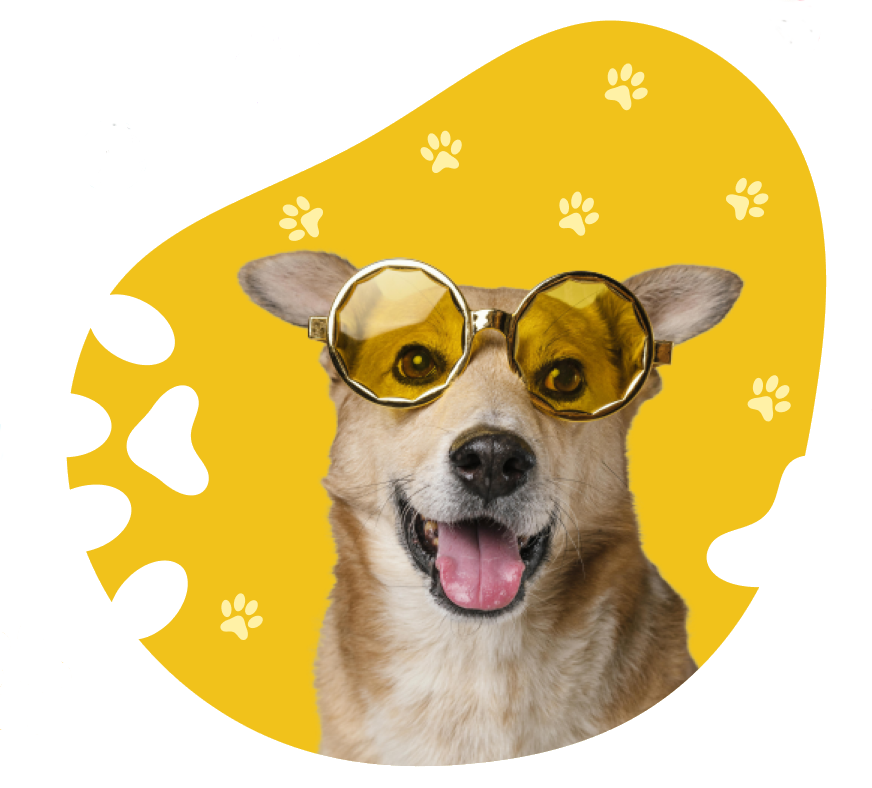
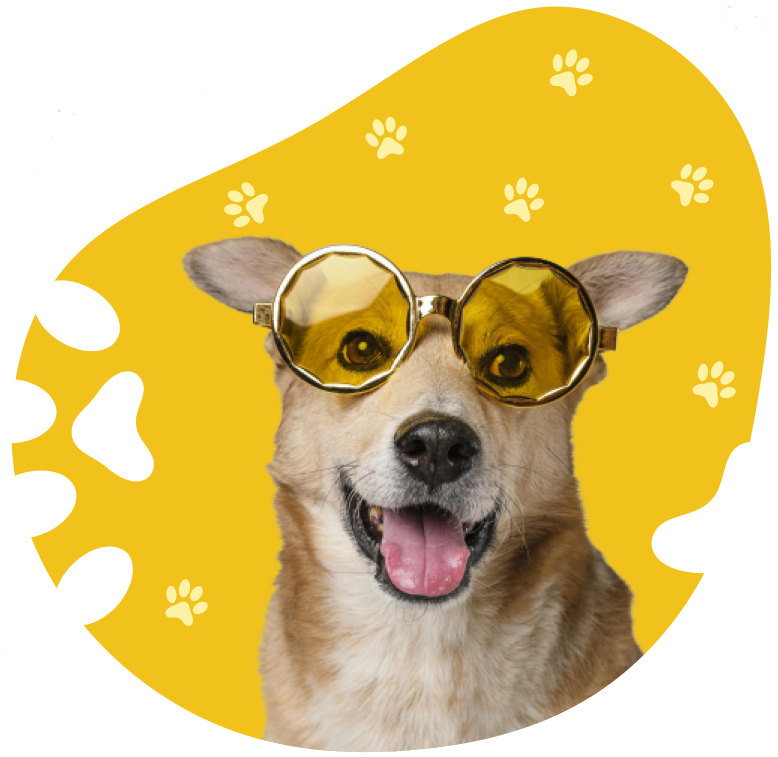
update

Changed region(s): [[0.0, 0.0, 1.0, 1.0], [0.617, 0.2431, 0.7095, 0.3038]]

diff --git a/src/home/home.css b/src/home/home.css
@@ -44,13 +44,14 @@
 }
 
 .hero-text-container {
-    width: 70vw;
+    width: 65%;
     height: 89vh;
     display: flex;
     flex-direction: column;
     justify-content: center;
     padding-left: 15vh;
     padding-bottom: 5vh;
+
 }
 
 
@@ -65,52 +66,58 @@
 .hero-text-inara-text {
     font-family: 'Montserrat';
 
-    font-size: 6rem; 
+    font-size: 13vh; 
     font-weight: 600; 
-    margin: 20px 0; 
     color: #000000; 
 }
 
 .hero-text-description {
     font-family: 'Montserrat';
 
-    font-size: 1.25rem; 
+    font-size: 2.8vh; 
     font-weight: 500; 
     margin: 10px 0; 
     color: #1f2027; 
     margin-right: 10vw;
 }
-
-.hero-dog {
-    position: absolute;
-    height: 38rem; 
-    margin-left: 50vw;
-    z-index: 3;
-    flex-shrink: 0;
-    max-width: 100%;
-    
-
-}
-
-.hero-grid {
+ 
+.hero-image-container {
     position: relative;
-    z-index: 2;
-
-    height: 38.8rem;
-}
+    height: 89vh;
+    width: 65%;
+    display: flex;
+    justify-content: center;
+    align-items: center;
+  }
+  
+  .hero-grid {
+    height: 89vh;
+    width: auto;
+    position: relative;
+    z-index: 1;
+  }
+  
+  .hero-dog {
+    height: 88vh;
+    width: auto;
+    position: absolute;
+    z-index: 2; /* Make sure it's on top of the grid */
+  }
+  
 
 .hero-button {
     font-family: 'Montserrat', sans-serif;
     background-color: #EBCA67;
     color: #000000;
-    padding: 16px 20px;
-    font-size: 1.1rem;
+    padding: 2.5vh 3vh;
+    font-size: 2.5vh;
     border: none;
     border-radius: 5px;
     cursor: pointer;
     margin-top: 20px;
     transition: background-color 0.3s ease;
     margin-right: 20px;
+    
   }
   
   .hero-button:hover {
@@ -120,8 +127,8 @@
   .hero-button-ghost {
     font-family: 'Montserrat', sans-serif;
     color: #000000;
-    padding: 16px 20px;
-    font-size: 1.1rem;
+    padding: 2.5vh 3vh;
+    font-size: 2.5vh;
     border: none;
     border-radius: 5px;
     cursor: pointer;
@@ -138,7 +145,7 @@
 .description-container {
     padding-left: 7vw;
     padding-right: 7vw;
-    padding-top: 15vh;
+    padding-top: 10vh;
     display: flex;
 }
 
@@ -174,7 +181,7 @@
 .features-container {
     padding-left: 7vw;
     padding-right: 7vw;
-    padding-top: 15vh;
+    padding-top: 10vh;
 }
 
 .features-title {
@@ -189,6 +196,8 @@
 .features-logos-container {
     display: flex;
     flex-direction: row;
+    width: 100%;
+    justify-content: center;
 }
 
 .features-text {
@@ -208,20 +217,26 @@
     border: 2px solid black;
     justify-content: center;
     text-align: center;
-    height: 40vh;
-    width: 20vw;
+    height: 50vh;
+    width: 15vw;
     align-items: center;
-    margin-right: 5vw;
     border-radius: 10px;
+    background-color: #f3e4ca;
+    display: flex; /* Enable flexbox */
+    flex-direction: column; /* Stacks the content vertically */
+    margin-right: 3vw;
 }
 
 .features-description {
     font-family: 'Montserrat';
-
     font-size: 1rem; 
     font-weight: 500; 
     margin: 20px 0; 
     color: #000000; 
     width: 60%;
     text-align: center;
+    display: flex; /* Enable flexbox */
+    justify-content: space-between; /* Space elements within the container */
+    align-items: center; /* Optional: To align elements vertically */
 }
+

diff --git a/src/home/home.jsx b/src/home/home.jsx
@@ -25,15 +25,18 @@ const Home = () => {
 
         <div className='hero-container'>
             <div className='hero-text-container'>
+                <p className='hero-text-description'>Kalung peliharaan NFC</p>
                 <p className='hero-text-inara-text'>Inara Paws</p>
-                <p className='hero-text-description'>Kalung NFC untuk hewan peliharaan yang menyimpan informasi penting dan kenangan berharga</p>
+                <p className='hero-text-description'>Teknologi canggih untuk hewan peliharaan yang menyimpan informasi penting dan kenangan berharga</p>
                 <div>
                     <button className="hero-button">Beli Inara Paws</button>
                     <button className="hero-button-ghost">Pelajari Lebih Lanjut</button>
                 </div>
             </div>
-            <img className='hero-dog' src={heroDog2}></img>
-            <img className='hero-grid' src={heroGrid}></img>
+            <div className='hero-image-container'>
+                <img className='hero-dog' src={heroDog2} />
+                <img className='hero-grid' src={heroGrid} />
+            </div>
 
         </div>
 
@@ -59,6 +62,11 @@ const Home = () => {
                 <div className='features-div'>
                     <p className='features-text'>NFC</p>
                     <img className='features-image' src={featuresNfc}></img>
+                    <p className='features-description'>Mudah diakses kapan saja dengan website kami</p>
+                </div>
+                <div className='features-div'>
+                    <p className='features-text'>Kapsul Waktu</p>
+                    <img className='features-image' src={featuresTime}></img>
                     <p className='features-description'>Mudah diakses kapan saja dengan website kami</p>
                 </div>
                 <div className='features-div'>
